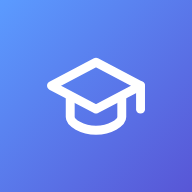
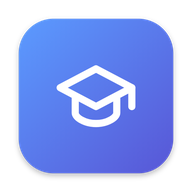
Ikona: macOS tvar (zaoblení + okraj) pro Dock, maskable zvlášť pro Android
Claude-Session: https://claude.ai/code/session_011MWyceE5qr9ZrDMcjjpAbW

diff --git a/sw.js b/sw.js
@@ -1,6 +1,6 @@
 /* Škola · service worker: appka běží offline + push notifikace na termíny (notify.js). Cache se mění s každým buildem. */
-const CACHE = 'skola-2026-10-21c';
-const FILES = ['./', 'index.html', 'manifest.webmanifest', 'notify.js', 'pushcrypto.js', 'icons/icon-192.png', 'icons/icon-512.png', 'icons/apple-touch-icon.png', 'icons/favicon.svg'];
+const CACHE = 'skola-2026-10-25a';
+const FILES = ['./', 'index.html', 'manifest.webmanifest', 'notify.js', 'pushcrypto.js', 'icons/icon-192.png', 'icons/icon-512.png', 'icons/maskable-192.png', 'icons/maskable-512.png', 'icons/apple-touch-icon.png', 'icons/favicon.svg'];
 self.addEventListener('install', e => { e.waitUntil(caches.open(CACHE).then(c => c.addAll(FILES)).then(() => self.skipWaiting())); });
 self.addEventListener('activate', e => {
   e.waitUntil(caches.keys().then(ks => Promise.all(ks.filter(k => k !== CACHE && k.startsWith('skola-')).map(k => caches.delete(k)))).then(() => self.clients.claim()));
